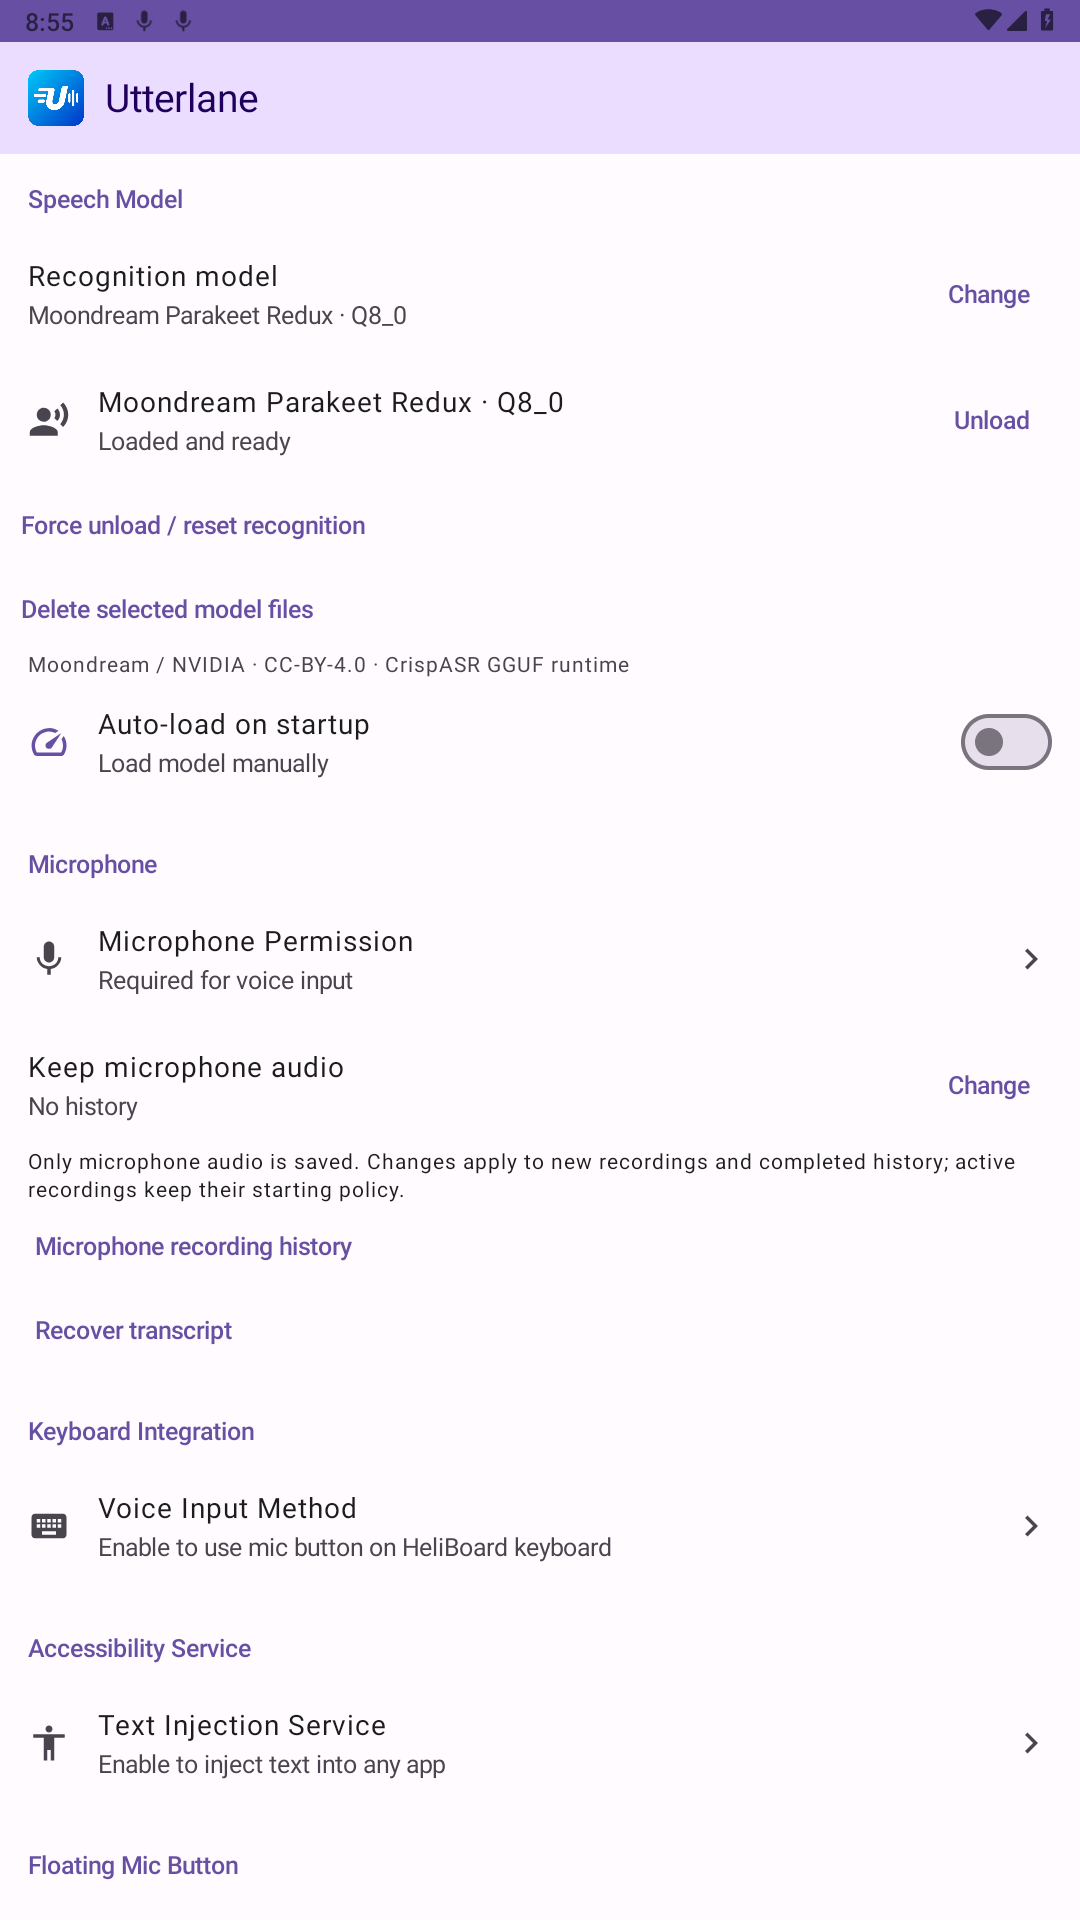
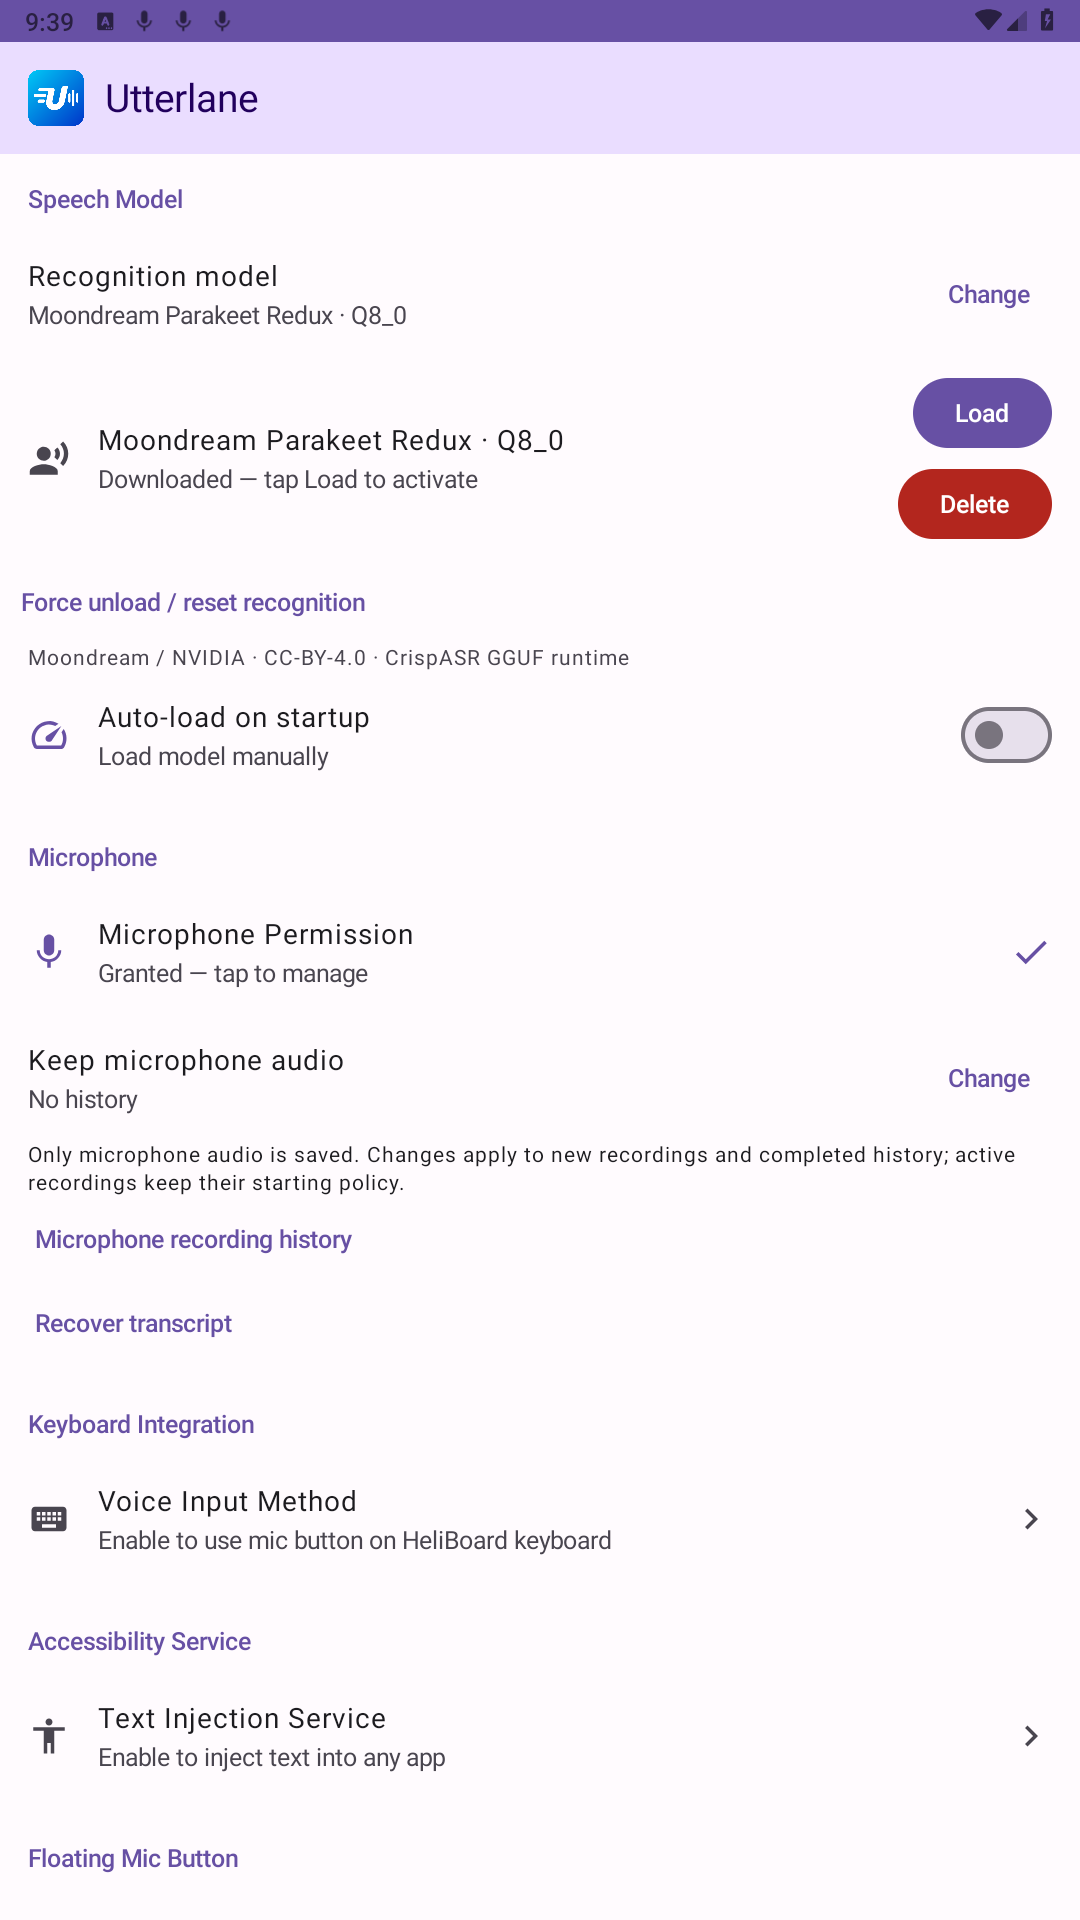
chore(branding): align Utterlane rebrand with latest main
Preserve the new model-delete confirmation and confirmed-model guard while replaying the rebrand. Update the newly added APK workflow artifact names, README badge and screenshots for the combined build.

Verified complete-file preservation of main logic, 29 JVM tests, 3 Android tests, debug and release builds, APK branding audit and actionlint. Record the conflict-hunk checklist and runtime evidence.

Harness: OpenCode; model: OpenAI gpt-6-astra.

diff --git a/tools/qa/check_rebrand.py b/tools/qa/check_rebrand.py
@@ -25,6 +25,7 @@ class RebrandAudit:
         "docs/qa/utterlane-rebrand.md",
         "docs/superpowers/plans/2026-10-02-audio-history-streaming.md",
         "docs/superpowers/plans/2026-10-04-utterlane-rebrand.md",
+        "docs/superpowers/plans/2026-10-04-apk-workflow.md",
         "tools/qa/check_rebrand.py",
     }
 

diff --git a/docs/qa/utterlane-main-replay.md b/docs/qa/utterlane-main-replay.md
@@ -1,0 +1,91 @@
+# Utterlane replay onto updated main
+
+Date: 2026-10-04.
+Branch: `feat/utterlane-rebrand-latest`.
+Worktree: `.worktrees/utterlane-rebrand-latest`.
+
+Fetched `origin`; local `main` and `origin/main` both resolved to
+`e426439a568c0966425b8a10aa8a71bf5df27314` before replay.
+The two new main commits are:
+
+- `0929920`: APK builds on pushes, pull requests and published releases.
+- `e426439`: red model-deletion button, confirmation dialog, and a lock-protected
+  confirmed-model identity check in the recognizer manager.
+
+## Replay and conflict resolution
+
+Created a fresh branch from main and cherry-picked the six original rebrand
+commits, preserving the original branch and worktree:
+
+| Original | Replayed |
+| --- | --- |
+| `f42ce85` | `cb42ed2` |
+| `f462b13` | `af95fff` |
+| `2af7710` | `e3760ce` |
+| `c5cb64b` | `b6b5c3d` |
+| `f66192e` | `1ebb3f4` |
+| `2117480` | `09e3bce` |
+
+The only conflict was in
+`app/src/main/java/io/github/lrq3000/utterlane/settings/SettingsActivity.kt`.
+Main's model-specific `remember(selectedModel.id)` confirmation state was kept;
+the application reference was updated to `UtterlaneApp`.
+
+### Original conflicting-file hunk checklist
+
+Original line numbers refer to the source-rename commit `f462b13`:
+
+| Hunk | Outcome |
+| --- | --- |
+| 1: package declaration | Applied |
+| 39: imports | Applied |
+| 119: activity settings repository | Applied |
+| 130: Compose theme | Applied |
+| 166: model status and service restart | Applied |
+| 329: SettingsScreen application references | Applied with adaptation: retained main's confirmation state and comment while renaming the recognizer application reference |
+| 350: transcription manager | Applied |
+| 504: history settings component | Applied |
+
+`git range-diff cc23968..2117480 e426439..09e3bce` shows five unchanged patches;
+the source-rename patch differs only in context around the preserved confirmation
+state. A complete-file comparison additionally verified that SettingsActivity
+equals main's file after only namespace/application/theme substitutions and the
+approved logo-header insertion. RecognizerManager equals main's file after only
+namespace/application substitutions. Thus main's deletion logic was preserved,
+not inferred merely from the absence of conflict markers.
+
+## Integration follow-ups
+
+- Renamed the new workflow's upload/download artifact and release attachment
+  consistently to `Utterlane-debug`; permissions, triggers and build steps are
+  preserved.
+- Pointed the README build badge to that new workflow.
+- Kept the workflow's dated implementation plan as historical evidence and added
+  it to the rebrand audit's explicit history exceptions.
+- Refreshed both store/README screenshots from the combined app; the model
+  screenshot now shows the filled red Delete button rather than the old text link.
+
+## Verification
+
+- `gradlew.bat --offline --console=plain --quiet testDebugUnitTest assembleDebug
+  assembleDebugAndroidTest assembleRelease`: passed (29 JVM tests, debug,
+  instrumentation and minified unsigned release APKs).
+- `tools/qa/check_rebrand.py` with SDK `aapt` and both APKs: passed source/link/
+  artwork, application ID, labels, component, provider, intent, DEX and JNI checks.
+- `go run github.com/rhysd/actionlint/cmd/actionlint@v1.7.12 -shellcheck=
+  -pyflakes= .github/workflows/build_apk.yml`: passed with no diagnostics;
+  ShellCheck/Pyflakes were not part of this YAML check.
+- Three focused Android tests passed in 140.16 seconds on LDPlayer API 28:
+  both Q8 models transcribed through the native worker; capture panel behavior;
+  voice IME live text insertion and drain-on-Done.
+- Live UI: red Delete button opens a confirmation naming Redux Q8. Cancel
+  dismisses it and the model remains available. Confirmed destructive deletion
+  was not exercised in this replay check.
+- Inspected the actual confirmation dialog and refreshed English portrait
+  screenshots. Restored the emulator's French-only language list and original
+  1920 × 1080 display size afterward.
+- `git merge-base --is-ancestor e426439 HEAD` and `git diff --check`: passed.
+
+No hosted Actions run, F-Droid build, push or main-branch merge was performed.
+The original rebrand report remains a record of its earlier validation; this
+report covers the updated-main integration.

diff --git a/README.md b/README.md
@@ -7,7 +7,7 @@
 </p>
 
 <p align="center">
-  <a href="https://github.com/lrq3000/Utterlane/actions/workflows/android.yml"><img src="https://github.com/lrq3000/Utterlane/actions/workflows/android.yml/badge.svg" alt="Android CI"></a>
+  <a href="https://github.com/lrq3000/Utterlane/actions/workflows/build_apk.yml"><img src="https://github.com/lrq3000/Utterlane/actions/workflows/build_apk.yml/badge.svg" alt="Build APK"></a>
   <a href="LICENSE"><img src="https://img.shields.io/badge/license-Apache--2.0-blue" alt="Apache-2.0 license"></a>
   <img src="https://img.shields.io/badge/Android-8%2B%20%C2%B7%20ARM64-3DDC84" alt="Android 8 or later, ARM64">
   <img src="https://img.shields.io/badge/speech%20recognition-on--device-0088ee" alt="On-device speech recognition">

diff --git a/docs/qa/README.md b/docs/qa/README.md
@@ -37,3 +37,6 @@ The [rebrand verification report](utterlane-rebrand.md) records the packaged-APK
 native inference, input-integration and visual checks. Rerun the source audit with
 `python tools/qa/check_rebrand.py`; add `--aapt` and one or more `--apk` arguments
 to inspect distribution artifacts too.
+
+See [updated-main replay verification](utterlane-main-replay.md) for preservation
+of the model-deletion confirmation UI and newer APK workflow.
